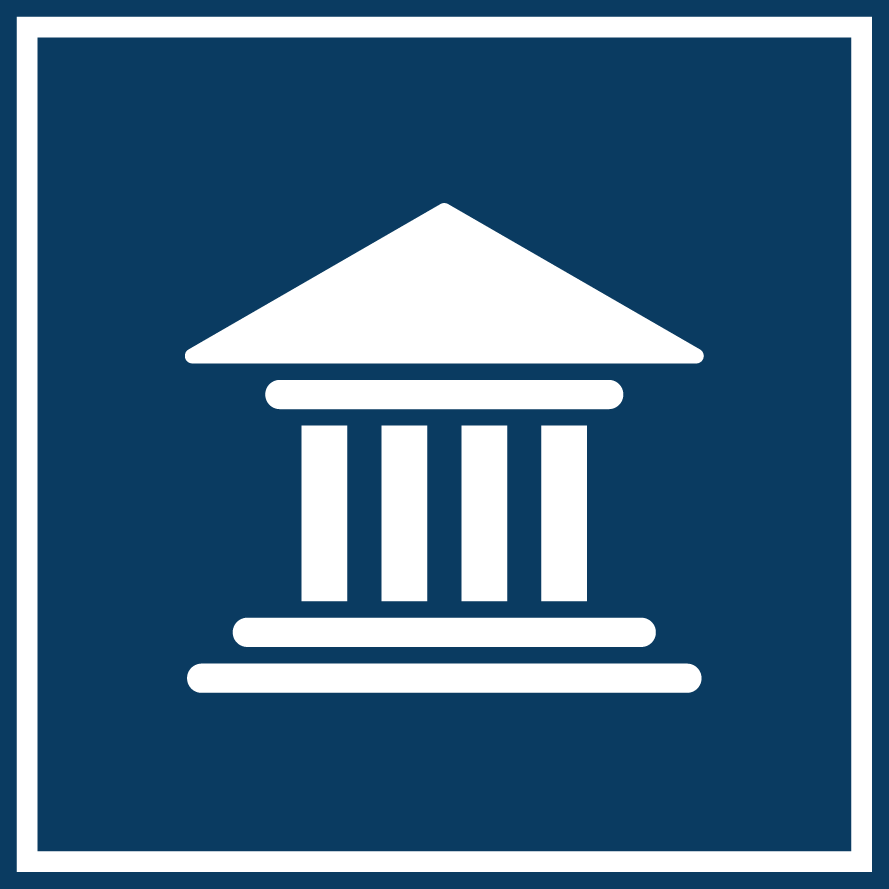
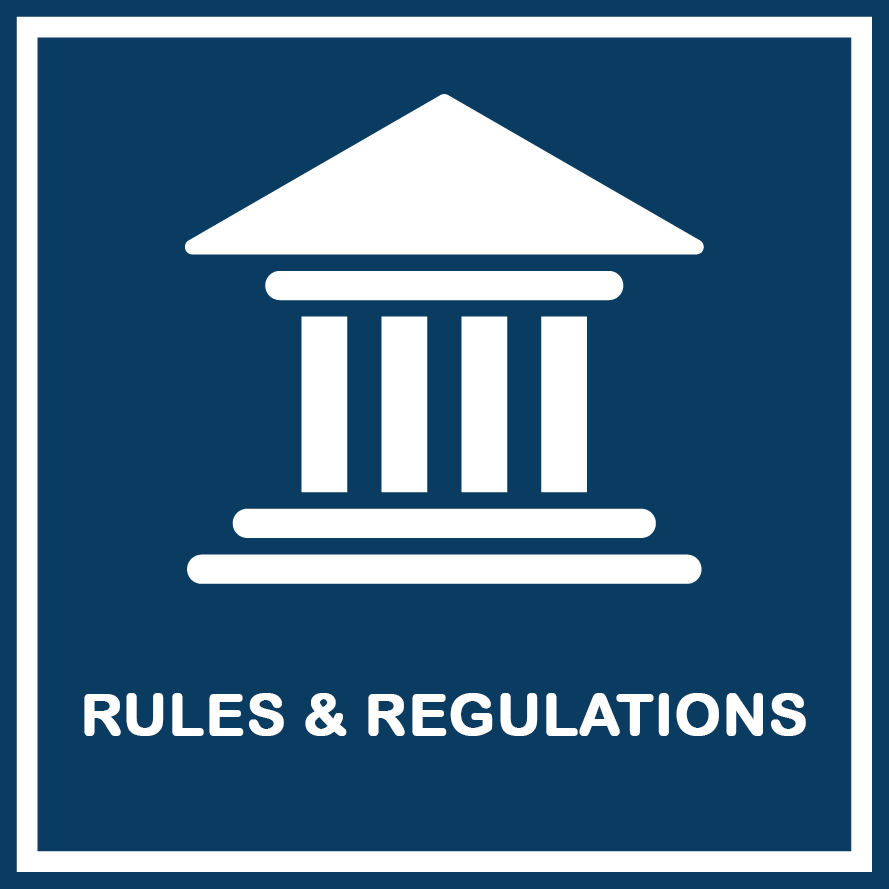
modified landing page

Changed region(s): [[0.0911, 0.5467, 0.9111, 0.8504], [0.2126, 0.0911, 0.7897, 0.4859]]

diff --git a/src/app/view/landing/home/home.component.html b/src/app/view/landing/home/home.component.html
@@ -2,8 +2,8 @@
 <meta charset="utf-8">
   <meta name="viewport" content="width=device-width, initial-scale=1">
   <link rel="stylesheet" href="https://maxcdn.bootstrapcdn.com/bootstrap/3.3.7/css/bootstrap.min.css">
-  <script src="https://ajax.googleapis.com/ajax/libs/jquery/3.3.1/jquery.min.js"></script>
-  <script src="https://maxcdn.bootstrapcdn.com/bootstrap/3.3.7/js/bootstrap.min.js"></script>
+  <!-- <script src="https://ajax.googleapis.com/ajax/libs/jquery/3.3.1/jquery.min.js"></script> -->
+  <!-- <script src="https://maxcdn.bootstrapcdn.com/bootstrap/3.3.7/js/bootstrap.min.js"></script> -->
 
 <div class="container_my">
   <div class="row">
@@ -135,7 +135,7 @@
 
   </div>
 </div>
-<div class="container" style="padding-left: 50px; ">
+<div class="container" >
   <h1 style="text-align: center; color: blue;">WELCOME TO DROPORT</h1>
  <p style="text-align: center;">DroPort, which is our official Web site, specializes in Aerial Cinematography for films and TV projects using RC Drones managed by qualified and skilled personnel. Based in Colombo Town which is close to the city of Colombo towards the North, this company is a fully owned Sri Lankan Company which is equipped with multi-platform aerial media. Our highly qualified and professional staff coupled with their experience will satisfy the customer and subject interests and safety from the very start to the end of their assignment.</p>
   </div>

diff --git a/src/app/components/app-header/app-header.component.html b/src/app/components/app-header/app-header.component.html
@@ -1,20 +1,18 @@
-<div class="row container_my" id="header">
+<link href="https://fonts.googleapis.com/css?family=Anton" rel="stylesheet">
+<div class="row" id="header">
   <div class="col-sm-4">
     <img class="img_new" src="../../../../assets/images/new.png">
   </div>
   <div class="col-sm-5">
     <div class="center">
-      <h1 style="padding-left: 130px; color: blue">A Web Portal For</h1>
+      <h1 style="padding-left: 130px; color: blue;">A Web Portal For</h1>
       <h1 style="padding-left: 70px; color: blue">Drone Service Providers</h1>
     </div>
   </div>
-  
+  <div class="col-sm-3">
     <a href="http://www.caa.lk/index.php?option=com_content&view=article&id=714:operations-of-drones-require-approval-from-the-caasl&catid=155:important-news&lang=en">
-      <div class="col-sm-3">
-        <img class="regul_img" src="../../../assets/images/rules.png">
-        <div>
-          <p style="text-align:left;">Local Rules <br> and Regulations </p>
-        </div>
-       </div>
+      <img class="regul_img" src="../../../assets/images/rules.png">
+      
     </a>
+  </div>
 </div>

diff --git a/src/app/app.module.ts b/src/app/app.module.ts
@@ -9,7 +9,6 @@ import { AgmCoreModule } from '@agm/core';
 import { HttpClientModule} from '@angular/common/http';
 import { UserService } from "./services/user.service";
 import { RequestService } from "./services/request.service";
-
 import { AppComponent } from './app.component';
 import { NavbarComponent } from './components/navbar/navbar.component';
 import { SidebarComponent } from './components/sidebar/sidebar.component';
@@ -52,7 +51,7 @@ import { CusRegComponent } from './view/customer/cus-reg/cus-reg.component';
 
 const appRoutes: Routes = [
   { path: '',component: HomeComponent  },
-  { path: 'login', component: LoginComponent },
+  { path: 'home', component: HomeComponent },
   { path: 'admin_main_panel', component: AdminMainPanelComponent },
   { path: 'admin_reg_owners', component: AdminRegOwnersComponent },
   { path: 'admin_reg_pilots', component: AdminRegPilotsComponent },

diff --git a/src/app/components/app-header/app-header.component.css b/src/app/components/app-header/app-header.component.css
@@ -2,26 +2,31 @@
 .img_new{
     width: 500px;
     height: auto;
-    padding-left: 50px;
+    /* padding-left: 50px; */
+    /* padding-bottom: 30px; */
     
 }
 #header {
     background-color: #ecf0f3;
+    /* width: 1000px; */
 }
-.container_my{
-    padding-left: 55px;
-    width: 1720px;
-}
+/* .container_my{
+    /* padding-left: 55px; */
+    /* width: auto ; */
+/* }  */
 
 .center{
-    margin: auto;
+    /* margin: auto; */
     padding-top: 70px;
-    font-size: 25px;
+    font-size: 30px;
+    font-family: 'Anton', sans-serif; 
     
 }
 .regul_img{
     padding-top: 50px;
     width: 200px;
     height:250px;
-    position:fixed;
 }
+
+
+    

diff --git a/src/app/components/navbar/navbar.component.html b/src/app/components/navbar/navbar.component.html
@@ -5,9 +5,9 @@
        <img src="../../../assets/images/nav.png" alt="logo" height="50px">
     </div>
     <ul class="nav navbar-nav">
-      <li class="active"><a routerLink="">Home |</a></li>
-      <li><a routerLink="./land_services">Services |</a></li>
-      <li><a routerLink="./land_about">About Us |</a></li>
+      <li><a routerLink="./home">Home </a></li>
+      <li><a routerLink="./land_services">Services </a></li>
+      <li><a routerLink="./land_about">About Us </a></li>
       <li><a routerLink="./land_contactus">Contact Us</a></li>
 
      </ul>

diff --git a/src/app/components/map/map.component.ts b/src/app/components/map/map.component.ts
@@ -1,9 +1,12 @@
 import { Component,ElementRef, NgZone, OnInit, ViewChild } from '@angular/core';
 import { FormControl } from '@angular/forms';
-//import {} from 'googlemaps';
 import { MapsAPILoader } from '@agm/core';
+// import { GoogleMap } from 'googlemaps';
 import { Placeholder } from '@angular/compiler/src/i18n/i18n_ast';
 
+
+
+// var google: any;
 @Component({
     selector: 'app-map',
     templateUrl: './map.component.html',

diff --git a/src/app/view/landing/home/home.component.css b/src/app/view/landing/home/home.component.css
@@ -1,8 +1,7 @@
 .container_my{
-    padding-left: 55px;
-    width: 1650px;
-    padding-bottom: 20px;
-    padding-top: 20px;
+    /* padding-left: 55px; */
+    width: auto;
+    padding: 20px;
 
 }
 
@@ -13,10 +12,10 @@ h1{
     font-size: 50px;
     text-align: center;
     padding-bottom: 5px;
-    padding-right: 30px;
+    /* padding-right: 30px; */
 
 }
 
 .container{
-    width: 1500px;
+    width: 1000px;
 }

diff --git a/src/app/components/navbar/navbar.component.css b/src/app/components/navbar/navbar.component.css
@@ -21,12 +21,12 @@ ul a:hover{
   .dropbtn {
     font-size: 16px;
     border: none;
-    background-color:#463bdf;
+    background-color:transparent;
 }
 
 .dropdown {
     position: relative;
-    display: inline-block;
+    display: inline; 
 }
 
 .dropdown-content {

diff --git a/src/app/view/login/login.component.html b/src/app/view/login/login.component.html
@@ -1,3 +1,4 @@
+<link rel="stylesheet" href="https://maxcdn.bootstrapcdn.com/bootstrap/3.3.7/css/bootstrap.min.css">
 <div class="container">
 	<form  #login ="ngForm" (ngSubmit)=add_to_db(login)>
 		<div class="panel panel-primary center-block">

diff --git a/src/app/view/customer/cus-new-req/cus-new-req.component.ts b/src/app/view/customer/cus-new-req/cus-new-req.component.ts
@@ -29,5 +29,6 @@ export class CusNewReqComponent implements OnInit {
     this.RequestService.post_NewRequest(req_data).subscribe(res=>console.log("Successfully added"))
 
   }
+  
 
 }

diff --git a/src/app/view/owner/own-reg/own-reg.component.ts b/src/app/view/owner/own-reg/own-reg.component.ts
@@ -10,7 +10,8 @@ import { Owner } from "../../../models/user";
 })
 export class OwnRegComponent implements OnInit {
 
-  data_arr: any[]
+  data_arr: any[];
+  
   
 
   constructor(

diff --git a/src/app/view/landing/about/about.component.html b/src/app/view/landing/about/about.component.html
@@ -1,3 +1,2 @@
 <app-app-header></app-app-header>
-
-
+<link rel="stylesheet" href="https://maxcdn.bootstrapcdn.com/bootstrap/3.3.7/css/bootstrap.min.css">
